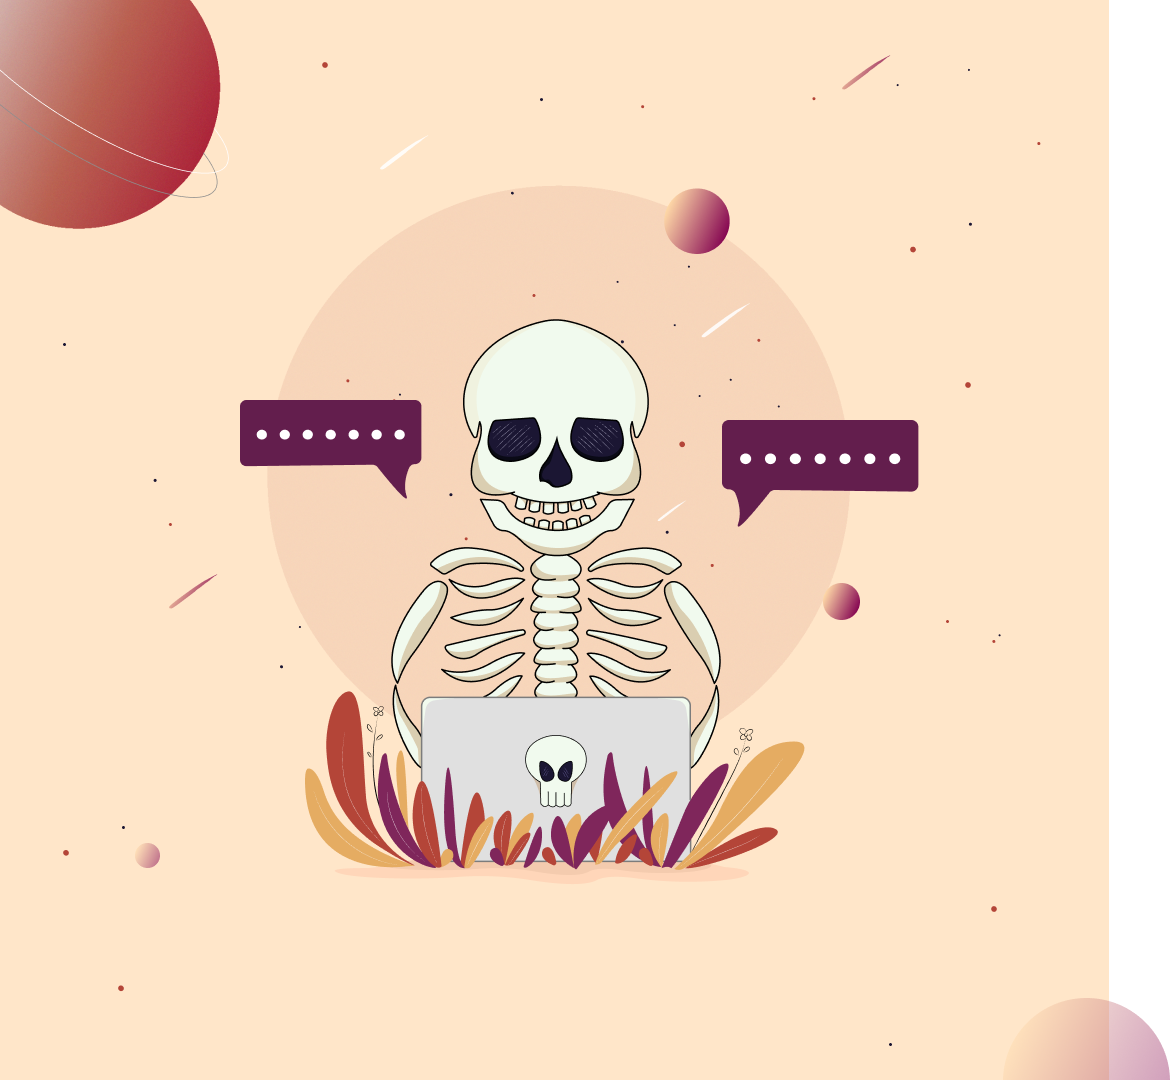
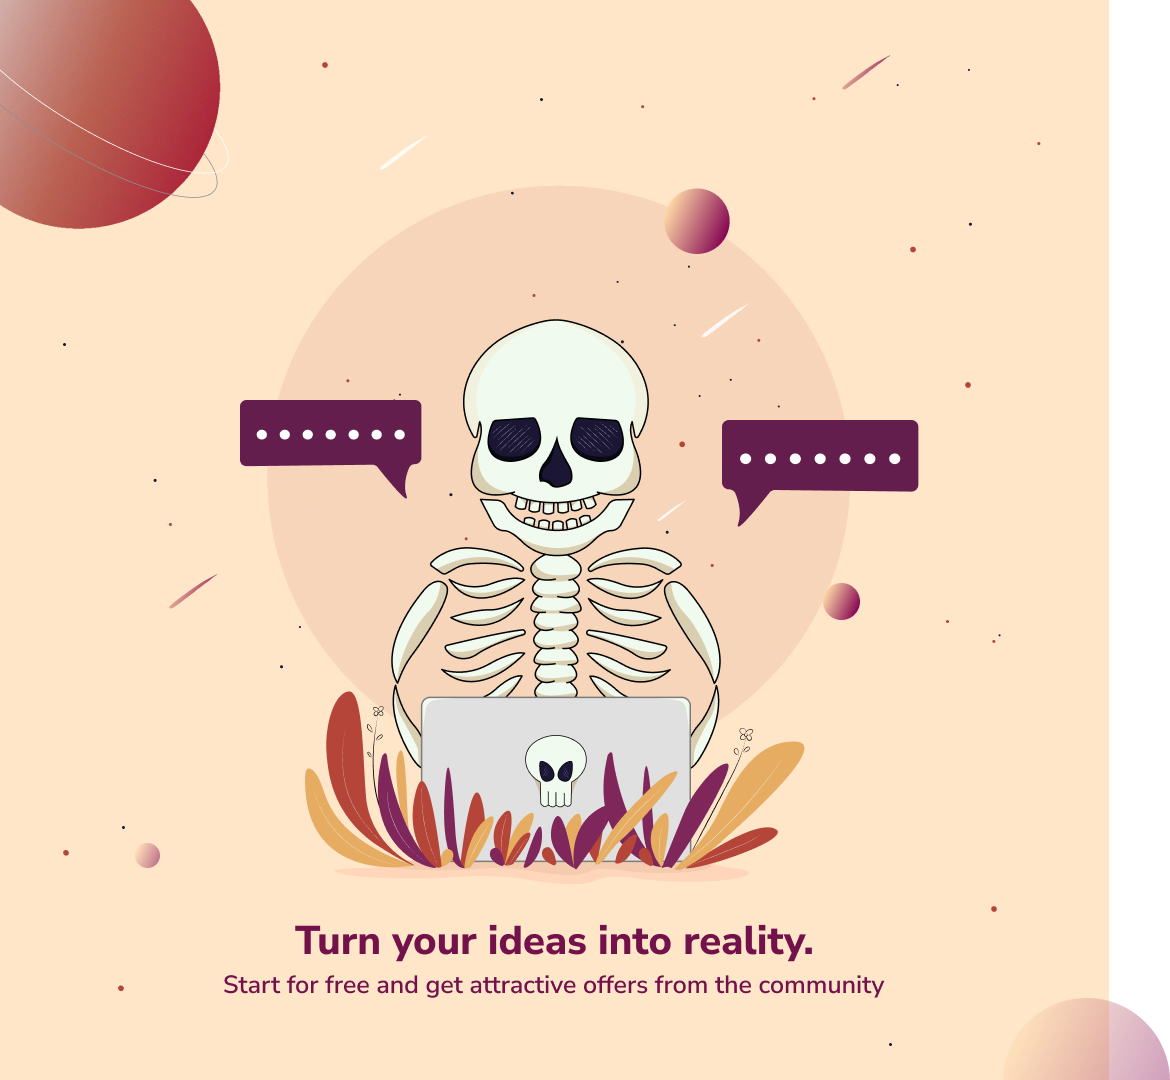
Add files via upload

Changed region(s): [[0.1846, 0.8556, 0.7385, 0.9167]]

diff --git a/style.css b/style.css
@@ -5,6 +5,7 @@
 body{
     margin: 0;
     padding: 0;
+    display: flex;
 }
 @font-face {
     font-family: "font";
@@ -14,48 +15,22 @@ body{
     width: 55%;
     height: 100vh;
 }
-.fototext1{
-    position: absolute;
-    left: 130px;
-    top: 570px;
-    font-weight: 800;
-    color: #7F265B;
-    font-size: 40px;
-}
-.fototext2{
-    position: absolute;
-    top: 640px;
-    left: 125px;
-    color: #7F265B;
-    font-size: 20px;
-    font-weight: 600;
-}
-.Group{
-    position: absolute;
-    top: 100px;
-    right: 490px;
-}
+
+
 .login{
     max-width: 420px;
     max-height: 505px;
+    margin-left: 8%;
+    margin-top: 100px;
 }
 span{
-    position: absolute;
-    top: 180px;
-    left: 912px;
     font-size: 36px;
     color: #525252;
     font-weight: 700;
+    
 }
-p{
-    position: absolute;
-}
-.text1{
-    top: 210px;
-    left: 912px;
-}
+
 .google{
-    position: absolute;
     width: 420px;
     height: 45px;
     display: flex;
@@ -63,29 +38,15 @@ p{
     border-radius: 5px;
     padding-left: 96px;
     gap: 13px;
-    left: 912px;
-    top: 280px;
     border: 1px solid #E8E8E8;
     color: #828282;
 }
 .signin{
-    position: absolute;
-    left: 985px;
-    top: 330px;
     text-align: center;
     color: #DDDDDD;
     font-size: 12px;
 }
-.email{
-    position: absolute;
-    left: 912px;
-    top: 380px;
-}
-.password{
-    position: absolute;
-    left: 912px;
-    top: 460px;
-}
+
 .email input, .password input{
     width: 420px;
     height: 45px;
@@ -105,11 +66,7 @@ p{
     background-image: url(key.png);
     background-repeat: no-repeat;
 }
-.checkbox input{
-    position: absolute;
-    left: 912px;
-    top: 530px;
-}
+
 .checkbox{
     max-width: 420px;
     display: flex;
@@ -118,9 +75,6 @@ p{
 }
 .remember{
     margin: 0;
-    position: absolute;
-    left: 937px;
-    top: 530px;
     font-size: 12px;
     color: #A1A1A1;
     line-height: 16.37px;
@@ -129,13 +83,11 @@ p{
     background-color: #7F265B;
 }
 .forgot{
-    position: absolute;
     margin: 0;
     color: #7F265B;
-    left: 1200px;
-    top: 530px;
     line-height: 16.37px;
     font-weight: 600;
+    margin-left: 188px;
 }
 button{
     width: 420px;
@@ -144,19 +96,19 @@ button{
     color: white;
     border: none;
     border-radius: 6px;
-    position: absolute;
-    left: 912px;
-    top: 570px;
 }
-.registered{
-    position: absolute;
-    left: 950px;
-    top: 700px;
-}
+
 .Create{
     color: #7F265B;
     position: absolute;
-    top: 700px;
-    left: 1100px;
     font-weight: 600;
+    margin: 143px; 
+    
+}
+.bolo{
+    display: flex;
+    justify-items: center;
+    align-items: center;
+    margin-top: 120px;
+    margin-left: 50px;
 }

diff --git a/index.html b/index.html
@@ -9,12 +9,9 @@
 <body>
     
      <img src="illustration.png" alt="background" class="background">
-     <!--photo text-->
-     <p class="fototext1">Turn your ideas into reality.</p>
-     <p class="fototext2">Start for free and get attractive offers from the community</p>
-     <!--end photo text-->
+     
      <div class="login">
-        <img class="Group" src="Group 1686550876.png" alt="Group">
+        <img class="Group" src="Group 1686550876.png" alt="Group"><br>
         <span>Login to your Account</span>
         <p class="text1">See what is going on with your business</p>
         <div class="google"><img src="google.png" alt="google">Continue with Google</div>
@@ -43,8 +40,10 @@
         <!--log in button-->
         <button>Login</button>
         <!-- end log in button-->
-
+        <div class="bolo">
         <p class="registered">Not Registered Yet?</p><p class="Create">Create an account</p>
      </div>
+     </div>
+  
 </body>
 </html>
